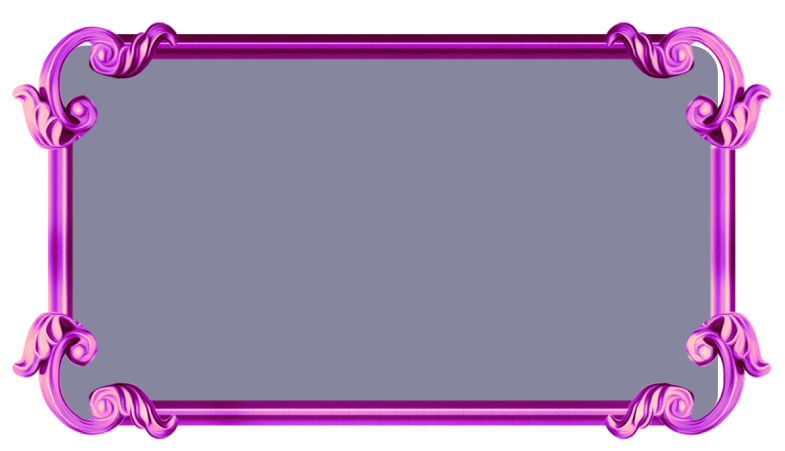
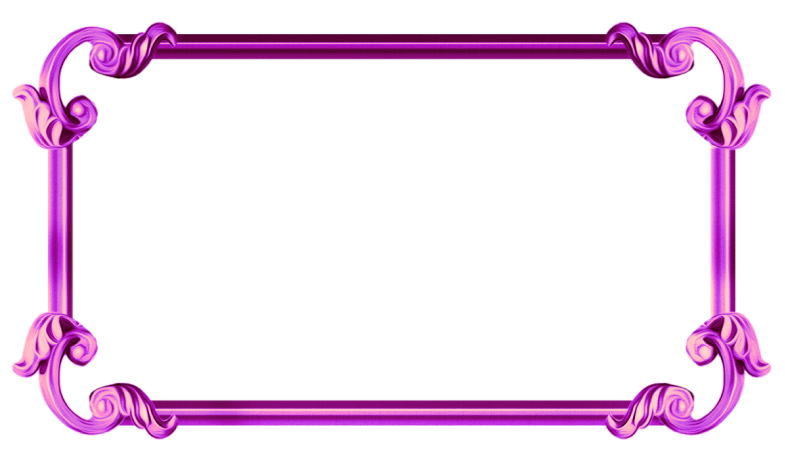
prizes modal

diff --git a/style/style.min.css b/style/style.min.css
@@ -1,1 +1,1 @@
-*,*::before,*::after{-webkit-box-sizing:border-box;box-sizing:border-box;margin:0;padding:0;position:relative;scroll-behavior:smooth}ul{list-style:none}a,a:visited{text-decoration:none;color:#fff}body{line-height:1.2;font-family:'Montserrat';font-style:normal;font-weight:400;text-rendering:optimizeLegibility;-webkit-font-smoothing:antialiased;-moz-osx-font-smoothing:grayscale;overflow-x:hidden;background-color:#141351}.container{margin:0 auto;padding:0 30px;max-width:1160px}.section{width:100%;position:relative}.btn{-webkit-appearance:none;-moz-appearance:none;appearance:none;border:none;display:block;cursor:pointer;text-align:center;display:-webkit-box;display:-ms-flexbox;display:flex;-webkit-box-align:center;-ms-flex-align:center;align-items:center;-webkit-box-pack:center;-ms-flex-pack:center;justify-content:center}.d-none{display:none !important}.no-events{pointer-events:none}.overflow-hidden{overflow:hidden}@media screen and (max-width: 425px){.container{padding:0 17px}}.baner{background:url("../img/baner-bg.jpg") no-repeat;background-position-x:center;background-size:cover;padding-bottom:60px;min-height:100vh;display:-webkit-box;display:-ms-flexbox;display:flex;-webkit-box-align:center;-ms-flex-align:center;align-items:center;padding:40px 0}.baner__hero{display:-webkit-box;display:-ms-flexbox;display:flex;-webkit-box-pack:justify;-ms-flex-pack:justify;justify-content:space-between;-webkit-box-align:center;-ms-flex-align:center;align-items:center}.baner__content{margin-right:30px;z-index:2}.baner__text{font-weight:500;font-size:20px;line-height:120%;letter-spacing:0.01em;color:rgba(255,255,255,0.9);margin-bottom:20px}.baner__title{font-weight:800;font-size:90px;line-height:100%;letter-spacing:-0.01em;text-transform:uppercase;color:#FFFFFF;text-shadow:0px 1px 11px #FFA200, 0px 0px 8px #FFC000, 0px -1px 2px #FFFA00, 0px 1px 4px #FF8700;margin-bottom:20px}.baner__subtitle{font-weight:700;font-size:24px;line-height:120%;letter-spacing:0.01em;color:#FFFFFF;margin-bottom:34px}.baner::after{content:'';position:absolute;bottom:0;left:0;right:0;width:100%;height:600px;background:-webkit-gradient(linear, left top, left bottom, color-stop(37.92%, rgba(20,19,81,0)), to(#141351));background:linear-gradient(180deg, rgba(20,19,81,0) 37.92%, #141351 100%);z-index:1;pointer-events:none}.prizes__title{font-weight:800;font-size:48px;line-height:110%;text-align:center;letter-spacing:-0.03em;text-transform:uppercase;color:#FFFFFF;text-shadow:0px 1px 11px #FFA200, 0px 1px 4px #FF8700;margin:0 auto;margin-bottom:60px;max-width:660px}.prizes__hero{width:100%;background:url("../img/frame-desktop.png") no-repeat;background-size:100% 100%;padding:45px 20px 0px;margin-bottom:120px}.prizes__list{display:-webkit-box;display:-ms-flexbox;display:flex;-webkit-box-align:stretch;-ms-flex-align:stretch;align-items:stretch;-webkit-box-pack:justify;-ms-flex-pack:justify;justify-content:space-between;-ms-flex-wrap:wrap;flex-wrap:wrap}.prizes__item{-ms-flex-preferred-size:25%;flex-basis:25%;padding:0 10px;margin-bottom:40px}.prizes__item.today .prizes__date::before{content:'';background:-webkit-gradient(linear, left bottom, left top, from(rgba(235,0,183,0.8)), to(#DB00FF)),#C937FF;background:linear-gradient(360deg, rgba(235,0,183,0.8) 0%, #DB00FF 100%),#C937FF;-webkit-box-shadow:0px 4px 14px -1px #DA77FF;box-shadow:0px 4px 14px -1px #DA77FF;border-radius:4px 4px 0px 0px;position:absolute;top:0;left:0;right:0;height:4px}.prizes__item.active .prizes__btn{opacity:1}.prizes__item.active .prizes__img{opacity:1;-webkit-filter:grayscale(0);filter:grayscale(0)}.prizes__date{position:relative;background:-webkit-gradient(linear, left top, left bottom, color-stop(2.6%, rgba(112,42,144,0.224)), to(rgba(15,1,98,0.2905)));background:linear-gradient(180deg, rgba(112,42,144,0.224) 2.6%, rgba(15,1,98,0.2905) 100%);border:1px solid rgba(255,255,255,0.05);-webkit-backdrop-filter:blur(13.5914px);backdrop-filter:blur(13.5914px);border-radius:8px;margin-bottom:10px;color:#fff;display:-webkit-box;display:-ms-flexbox;display:flex;-webkit-box-align:center;-ms-flex-align:center;align-items:center;-webkit-box-pack:center;-ms-flex-pack:center;justify-content:center;font-weight:800;font-size:20px;line-height:120%;letter-spacing:0.01em;text-transform:uppercase;padding:24px 12px 17px}.prizes__card{padding:15px 15px 35px;background:-webkit-gradient(linear, left top, left bottom, color-stop(2.6%, rgba(112,42,144,0.224)), to(rgba(15,1,98,0.2905)));background:linear-gradient(180deg, rgba(112,42,144,0.224) 2.6%, rgba(15,1,98,0.2905) 100%);border:1px solid rgba(255,255,255,0.05);-webkit-backdrop-filter:blur(13.5914px);backdrop-filter:blur(13.5914px);border-radius:8px}.prizes__day-num{font-weight:600;font-size:12px;line-height:167%;text-align:center;color:#FFFFFF;margin-bottom:25px}.prizes__img{width:105px;margin:0 auto;display:block;margin-bottom:33px;opacity:0.4;-webkit-filter:grayscale(1);filter:grayscale(1)}.prizes__btn{background:#EB4846;border-radius:5px;padding:7.5px 12px;font-weight:700;font-size:14px;line-height:171%;display:-webkit-box;display:-ms-flexbox;display:flex;-webkit-box-align:center;-ms-flex-align:center;align-items:center;text-align:center;letter-spacing:0.01em;color:#FFFFFF;margin:0 auto;-webkit-transition:background .3s ease;transition:background .3s ease;opacity:0.4;width:154px}.prizes__btn:hover{background:#e51b19}.terms{max-width:730px;margin-bottom:100px}.terms__title{font-weight:700;font-size:24px;line-height:140%;color:#fff;margin-bottom:20px}.terms__text{font-weight:400;font-size:16px;line-height:140%;text-align:justify;color:rgba(255,255,255,0.75)}.terms__list{padding-left:22px;margin-top:20px}.terms__item{color:rgba(255,255,255,0.75);margin-bottom:16px}.terms__item::before{content:'';position:absolute;width:2px;height:2px;background:rgba(255,255,255,0.75);top:8px;left:-12px;border-radius:50%}.spinner{position:relative;min-width:560px;height:560px;display:-webkit-box;display:-ms-flexbox;display:flex;-webkit-box-pack:center;-ms-flex-pack:center;justify-content:center;-webkit-box-align:center;-ms-flex-align:center;align-items:center;z-index:2}.spinner__bg{position:absolute;width:100%;height:100%}.spinner__hero{width:465px;height:465px;-webkit-transition:-webkit-transform 2s ease-in-out 0s;transition:-webkit-transform 2s ease-in-out 0s;transition:transform 2s ease-in-out 0s;transition:transform 2s ease-in-out 0s, -webkit-transform 2s ease-in-out 0s;-webkit-transform:rotate(0deg);transform:rotate(0deg);cursor:pointer}.spinner__pointer{position:absolute;top:21px;left:50%;-webkit-transform:translate(-40%, 0);transform:translate(-40%, 0);width:55px}.spinner__btn-wrap{position:absolute;top:50%;left:50%;-webkit-transform:translate(-50%, -50%);transform:translate(-50%, -50%)}.spinner__btn{background:url("../img/wheel/btn.png") no-repeat;background-size:100% 100%;width:96px;height:96px;border-radius:50%}#spinner.spinning .spinner__hero{-webkit-transform:rotate(60deg);transform:rotate(60deg)}.select{position:relative;cursor:pointer;display:-webkit-box;display:-ms-flexbox;display:flex;-webkit-box-align:center;-ms-flex-align:center;align-items:center;-webkit-box-pack:center;-ms-flex-pack:center;justify-content:center;background:rgba(247,243,255,0.1);border:1px solid rgba(255,255,255,0.1);-webkit-backdrop-filter:blur(15px);backdrop-filter:blur(15px);border-radius:5px;padding:8px 16px;max-width:230px}.select__val{color:#fff;font-weight:700;font-size:14px;line-height:171%;letter-spacing:0.01em;text-align:center}.select__icon{margin-left:12px;-webkit-transform:rotate(0deg);transform:rotate(0deg);-webkit-transition:-webkit-transform .3s ease;transition:-webkit-transform .3s ease;transition:transform .3s ease;transition:transform .3s ease, -webkit-transform .3s ease}.select__list{position:absolute;top:105%;left:0;right:0;border-radius:5px;background:rgba(247,243,255,0.1);border:1px solid rgba(255,255,255,0.1);-webkit-backdrop-filter:blur(15px);backdrop-filter:blur(15px);z-index:2;-webkit-transform:translateY(-5px);transform:translateY(-5px);opacity:0;pointer-events:none;-webkit-transition:opacity .3s ease, -webkit-transform .3s ease;transition:opacity .3s ease, -webkit-transform .3s ease;transition:opacity .3s ease, transform .3s ease;transition:opacity .3s ease, transform .3s ease, -webkit-transform .3s ease}.select__list li{padding:8px 5px 8px 14px;cursor:pointer;color:#fff;-webkit-transition:color .2s ease;transition:color .2s ease}.select__list li:hover{color:#fff}.select.opened .select__list{-webkit-transform:translateY(0px);transform:translateY(0px);opacity:1;pointer-events:all}.select.opened .select__icon{-webkit-transform:rotate(180deg);transform:rotate(180deg)}.modal{position:fixed;top:0;bottom:0;left:0;right:0;background:rgba(5,0,20,0.5);-webkit-backdrop-filter:blur(2px);backdrop-filter:blur(2px);z-index:100;display:none;opacity:0;-webkit-transition:opacity .3s ease;transition:opacity .3s ease;padding:30px;overflow-x:hidden}.modal.displayed{display:block}.modal.visible{opacity:1}.modal__container{min-height:100%;max-width:785px;display:-webkit-box;display:-ms-flexbox;display:flex;-webkit-box-pack:center;-ms-flex-pack:center;justify-content:center;-webkit-box-align:center;-ms-flex-align:center;align-items:center;margin:0 auto;position:relative}.modal__hero{width:100%;height:450px;padding:40px 55px;display:-webkit-box;display:-ms-flexbox;display:flex;-webkit-box-orient:vertical;-webkit-box-direction:normal;-ms-flex-direction:column;flex-direction:column;-webkit-box-pack:start;-ms-flex-pack:start;justify-content:flex-start;position:relative}.modal__hero::after{content:'';position:absolute;pointer-events:none;width:100%;height:100%;background:url("../img/wheel-popup-desktop.png") no-repeat;background-size:100% 100%;top:0;left:0}.modal__content{background:rgba(16,13,63,0.5);-webkit-backdrop-filter:blur(22px);backdrop-filter:blur(22px);border-radius:28px;height:100%;width:100%;display:-webkit-box;display:-ms-flexbox;display:flex;-webkit-box-orient:vertical;-webkit-box-direction:normal;-ms-flex-direction:column;flex-direction:column;-webkit-box-align:center;-ms-flex-align:center;align-items:center;-webkit-box-pack:center;-ms-flex-pack:center;justify-content:center}.modal__close{position:absolute;right:30px;top:0;cursor:pointer}.modal__close path{-webkit-transition:all .2s ease;transition:all .2s ease}.modal__close:hover path{stroke-opacity:1}.modal__head-text{font-weight:600;font-size:16px;line-height:120%;text-align:center;color:#FFFFFF;margin-bottom:5px}.modal__big-title{font-weight:800;font-size:34px;line-height:120%;text-align:center;letter-spacing:-0.03em;color:#FFFFFF;text-shadow:0px 1px 12px #FFA200;margin-bottom:70px;max-width:412px}.modal__btn{display:-webkit-box;display:-ms-flexbox;display:flex;-webkit-box-pack:center;-ms-flex-pack:center;justify-content:center;-webkit-box-align:center;-ms-flex-align:center;align-items:center;padding:7px 39px 8px;min-width:128px;background:#EB4846;border-radius:5px;font-weight:700;font-size:14px;line-height:171%;letter-spacing:0.01em;color:#FFFFFF;-webkit-transition:background .3s ease;transition:background .3s ease}.modal__btn:hover{background:#e51b19}
+*,*::before,*::after{-webkit-box-sizing:border-box;box-sizing:border-box;margin:0;padding:0;position:relative;scroll-behavior:smooth}ul{list-style:none}a,a:visited{text-decoration:none;color:#fff}body{line-height:1.2;font-family:'Montserrat';font-style:normal;font-weight:400;text-rendering:optimizeLegibility;-webkit-font-smoothing:antialiased;-moz-osx-font-smoothing:grayscale;overflow-x:hidden;background-color:#141351}.container{margin:0 auto;padding:0 30px;max-width:1160px}.section{width:100%;position:relative}.btn{-webkit-appearance:none;-moz-appearance:none;appearance:none;border:none;display:block;cursor:pointer;text-align:center;display:-webkit-box;display:-ms-flexbox;display:flex;-webkit-box-align:center;-ms-flex-align:center;align-items:center;-webkit-box-pack:center;-ms-flex-pack:center;justify-content:center}.d-none{display:none !important}.no-events{pointer-events:none}.overflow-hidden{overflow:hidden}@media screen and (max-width: 425px){.container{padding:0 17px}}.baner{background:url("../img/baner-bg.jpg") no-repeat;background-position-x:center;background-size:cover;padding-bottom:60px;min-height:100vh;display:-webkit-box;display:-ms-flexbox;display:flex;-webkit-box-align:center;-ms-flex-align:center;align-items:center;padding:40px 0}.baner__hero{display:-webkit-box;display:-ms-flexbox;display:flex;-webkit-box-pack:justify;-ms-flex-pack:justify;justify-content:space-between;-webkit-box-align:center;-ms-flex-align:center;align-items:center}.baner__content{margin-right:30px;z-index:2}.baner__text{font-weight:500;font-size:20px;line-height:120%;letter-spacing:0.01em;color:rgba(255,255,255,0.9);margin-bottom:20px}.baner__title{font-weight:800;font-size:90px;line-height:100%;letter-spacing:-0.01em;text-transform:uppercase;color:#FFFFFF;text-shadow:0px 1px 11px #FFA200, 0px 0px 8px #FFC000, 0px -1px 2px #FFFA00, 0px 1px 4px #FF8700;margin-bottom:20px}.baner__subtitle{font-weight:700;font-size:24px;line-height:120%;letter-spacing:0.01em;color:#FFFFFF;margin-bottom:34px}.baner::after{content:'';position:absolute;bottom:0;left:0;right:0;width:100%;height:600px;background:-webkit-gradient(linear, left top, left bottom, color-stop(37.92%, rgba(20,19,81,0)), to(#141351));background:linear-gradient(180deg, rgba(20,19,81,0) 37.92%, #141351 100%);z-index:1;pointer-events:none}.prizes__title{font-weight:800;font-size:48px;line-height:110%;text-align:center;letter-spacing:-0.03em;text-transform:uppercase;color:#FFFFFF;text-shadow:0px 1px 11px #FFA200, 0px 1px 4px #FF8700;margin:0 auto;margin-bottom:60px;max-width:660px}.prizes__hero{width:100%;background:url("../img/frame-desktop.png") no-repeat;background-size:100% 100%;padding:45px 20px 0px;margin-bottom:120px}.prizes__list{display:-webkit-box;display:-ms-flexbox;display:flex;-webkit-box-align:stretch;-ms-flex-align:stretch;align-items:stretch;-webkit-box-pack:justify;-ms-flex-pack:justify;justify-content:space-between;-ms-flex-wrap:wrap;flex-wrap:wrap}.prizes__item{-ms-flex-preferred-size:25%;flex-basis:25%;padding:0 10px;margin-bottom:40px}.prizes__item.today .prizes__date::before{content:'';background:-webkit-gradient(linear, left bottom, left top, from(rgba(235,0,183,0.8)), to(#DB00FF)),#C937FF;background:linear-gradient(360deg, rgba(235,0,183,0.8) 0%, #DB00FF 100%),#C937FF;-webkit-box-shadow:0px 4px 14px -1px #DA77FF;box-shadow:0px 4px 14px -1px #DA77FF;border-radius:4px 4px 0px 0px;position:absolute;top:0;left:0;right:0;height:4px}.prizes__item.active .prizes__btn{opacity:1}.prizes__item.active .prizes__img{opacity:1;-webkit-filter:grayscale(0);filter:grayscale(0)}.prizes__date{position:relative;background:-webkit-gradient(linear, left top, left bottom, color-stop(2.6%, rgba(112,42,144,0.224)), to(rgba(15,1,98,0.2905)));background:linear-gradient(180deg, rgba(112,42,144,0.224) 2.6%, rgba(15,1,98,0.2905) 100%);border:1px solid rgba(255,255,255,0.05);-webkit-backdrop-filter:blur(13.5914px);backdrop-filter:blur(13.5914px);border-radius:8px;margin-bottom:10px;color:#fff;display:-webkit-box;display:-ms-flexbox;display:flex;-webkit-box-align:center;-ms-flex-align:center;align-items:center;-webkit-box-pack:center;-ms-flex-pack:center;justify-content:center;font-weight:800;font-size:20px;line-height:120%;letter-spacing:0.01em;text-transform:uppercase;padding:24px 12px 17px}.prizes__card{padding:15px 15px 35px;background:-webkit-gradient(linear, left top, left bottom, color-stop(2.6%, rgba(112,42,144,0.224)), to(rgba(15,1,98,0.2905)));background:linear-gradient(180deg, rgba(112,42,144,0.224) 2.6%, rgba(15,1,98,0.2905) 100%);border:1px solid rgba(255,255,255,0.05);-webkit-backdrop-filter:blur(13.5914px);backdrop-filter:blur(13.5914px);border-radius:8px}.prizes__day-num{font-weight:600;font-size:12px;line-height:167%;text-align:center;color:#FFFFFF;margin-bottom:25px}.prizes__img{width:105px;margin:0 auto;display:block;margin-bottom:33px;opacity:0.4;-webkit-filter:grayscale(1);filter:grayscale(1)}.prizes__btn{background:#EB4846;border-radius:5px;padding:7.5px 12px;font-weight:700;font-size:14px;line-height:171%;display:-webkit-box;display:-ms-flexbox;display:flex;-webkit-box-align:center;-ms-flex-align:center;align-items:center;text-align:center;letter-spacing:0.01em;color:#FFFFFF;margin:0 auto;-webkit-transition:background .3s ease;transition:background .3s ease;opacity:0.4;width:154px}.prizes__btn:hover{background:#e51b19}.terms{max-width:730px;margin-bottom:100px}.terms__title{font-weight:700;font-size:24px;line-height:140%;color:#fff;margin-bottom:20px}.terms__text{font-weight:400;font-size:16px;line-height:140%;text-align:justify;color:rgba(255,255,255,0.75)}.terms__list{padding-left:22px;margin-top:20px}.terms__item{color:rgba(255,255,255,0.75);margin-bottom:16px}.terms__item::before{content:'';position:absolute;width:2px;height:2px;background:rgba(255,255,255,0.75);top:8px;left:-12px;border-radius:50%}.spinner{position:relative;min-width:560px;height:560px;display:-webkit-box;display:-ms-flexbox;display:flex;-webkit-box-pack:center;-ms-flex-pack:center;justify-content:center;-webkit-box-align:center;-ms-flex-align:center;align-items:center;z-index:2}.spinner__bg{position:absolute;width:100%;height:100%}.spinner__hero{width:465px;height:465px;-webkit-transition:-webkit-transform 2s ease-in-out 0s;transition:-webkit-transform 2s ease-in-out 0s;transition:transform 2s ease-in-out 0s;transition:transform 2s ease-in-out 0s, -webkit-transform 2s ease-in-out 0s;-webkit-transform:rotate(0deg);transform:rotate(0deg);cursor:pointer}.spinner__pointer{position:absolute;top:21px;left:50%;-webkit-transform:translate(-40%, 0);transform:translate(-40%, 0);width:55px}.spinner__btn-wrap{position:absolute;top:50%;left:50%;-webkit-transform:translate(-50%, -50%);transform:translate(-50%, -50%)}.spinner__btn{background:url("../img/wheel/btn.png") no-repeat;background-size:100% 100%;width:96px;height:96px;border-radius:50%}#spinner.spinning .spinner__hero{-webkit-transform:rotate(60deg);transform:rotate(60deg)}.select{position:relative;cursor:pointer;display:-webkit-box;display:-ms-flexbox;display:flex;-webkit-box-align:center;-ms-flex-align:center;align-items:center;-webkit-box-pack:center;-ms-flex-pack:center;justify-content:center;background:rgba(247,243,255,0.1);border:1px solid rgba(255,255,255,0.1);-webkit-backdrop-filter:blur(15px);backdrop-filter:blur(15px);border-radius:5px;padding:8px 16px;max-width:230px}.select__val{color:#fff;font-weight:700;font-size:14px;line-height:171%;letter-spacing:0.01em;text-align:center}.select__icon{margin-left:12px;-webkit-transform:rotate(0deg);transform:rotate(0deg);-webkit-transition:-webkit-transform .3s ease;transition:-webkit-transform .3s ease;transition:transform .3s ease;transition:transform .3s ease, -webkit-transform .3s ease}.select__list{position:absolute;top:105%;left:0;right:0;border-radius:5px;background:rgba(247,243,255,0.1);border:1px solid rgba(255,255,255,0.1);-webkit-backdrop-filter:blur(15px);backdrop-filter:blur(15px);z-index:2;-webkit-transform:translateY(-5px);transform:translateY(-5px);opacity:0;pointer-events:none;-webkit-transition:opacity .3s ease, -webkit-transform .3s ease;transition:opacity .3s ease, -webkit-transform .3s ease;transition:opacity .3s ease, transform .3s ease;transition:opacity .3s ease, transform .3s ease, -webkit-transform .3s ease}.select__list li{padding:8px 5px 8px 14px;cursor:pointer;color:#fff;-webkit-transition:color .2s ease;transition:color .2s ease}.select__list li:hover{color:#fff}.select.opened .select__list{-webkit-transform:translateY(0px);transform:translateY(0px);opacity:1;pointer-events:all}.select.opened .select__icon{-webkit-transform:rotate(180deg);transform:rotate(180deg)}.modal{position:fixed;top:0;bottom:0;left:0;right:0;background:rgba(5,0,20,0.5);-webkit-backdrop-filter:blur(2px);backdrop-filter:blur(2px);z-index:100;display:none;opacity:0;-webkit-transition:opacity .3s ease;transition:opacity .3s ease;padding:30px;overflow-x:hidden}.modal.displayed{display:block}.modal.visible{opacity:1}.modal__container{min-height:100%;max-width:785px;display:-webkit-box;display:-ms-flexbox;display:flex;-webkit-box-pack:center;-ms-flex-pack:center;justify-content:center;-webkit-box-align:center;-ms-flex-align:center;align-items:center;margin:0 auto;position:relative}.modal__hero{width:100%;height:420px;padding:40px 55px;display:-webkit-box;display:-ms-flexbox;display:flex;-webkit-box-orient:vertical;-webkit-box-direction:normal;-ms-flex-direction:column;flex-direction:column;-webkit-box-pack:start;-ms-flex-pack:start;justify-content:flex-start;position:relative}.modal__hero::after{content:'';position:absolute;pointer-events:none;width:100%;height:100%;background:url("../img/wheel-popup-desktop.png") no-repeat;background-size:100% 100%;top:0;left:0}.modal__hero.prizes::after{background:url("../img/popup-desktop.png") no-repeat;background-size:100% 100%}.modal__content{background:rgba(16,13,63,0.5);-webkit-backdrop-filter:blur(22px);backdrop-filter:blur(22px);border-radius:28px;height:100%;width:100%;display:-webkit-box;display:-ms-flexbox;display:flex;-webkit-box-orient:vertical;-webkit-box-direction:normal;-ms-flex-direction:column;flex-direction:column;-webkit-box-align:center;-ms-flex-align:center;align-items:center;-webkit-box-pack:center;-ms-flex-pack:center;justify-content:center}.modal__close{position:absolute;right:30px;top:0;cursor:pointer}.modal__close path{-webkit-transition:all .2s ease;transition:all .2s ease}.modal__close:hover path{stroke-opacity:1}.modal__head-text{font-weight:600;font-size:16px;line-height:120%;text-align:center;color:#FFFFFF;margin-bottom:5px}.modal__big-title{font-weight:800;font-size:34px;line-height:120%;text-align:center;letter-spacing:-0.03em;color:#FFFFFF;text-shadow:0px 1px 12px #FFA200;margin-bottom:70px;max-width:412px}.modal__title{font-weight:800;font-size:24px;line-height:120%;text-align:center;letter-spacing:-0.03em;color:#FFFFFF;text-shadow:0px 1px 12px #FFA200;margin-bottom:30px}.modal__descr{font-weight:500;font-size:20px;line-height:140%;text-align:center;letter-spacing:0.01em;color:#FFFFFF;margin-bottom:40px;max-width:465px}.modal__btn{display:-webkit-box;display:-ms-flexbox;display:flex;-webkit-box-pack:center;-ms-flex-pack:center;justify-content:center;-webkit-box-align:center;-ms-flex-align:center;align-items:center;padding:7px 39px 8px;min-width:128px;background:#EB4846;border-radius:5px;font-weight:700;font-size:14px;line-height:171%;letter-spacing:0.01em;color:#FFFFFF;-webkit-transition:background .3s ease;transition:background .3s ease}.modal__btn:hover{background:#e51b19}

diff --git a/main.js b/main.js
@@ -33,6 +33,7 @@ spinnerBtn.addEventListener('click', () => {
     }, animTimeout);
 });
 
+
 document.querySelectorAll('.modal__close').forEach(el => {
     el.addEventListener('click', () => closeModal('ops-modal'));
 });
@@ -53,112 +54,3 @@ const selectVal = select.querySelector('.select__val');
 select.addEventListener('click', () => {
     select.classList.toggle('opened');
 });
-
-//REQUEST
-const modalBtn = document.querySelector('.modal__btn');
-const emailInput = document.querySelector('#email');
-const passwordInput = document.querySelector('#password');
-const promocodeInput = document.querySelector('#promocode');
-const currencyInput = document.querySelector('#currency');
-
-const termCheckbox = document.querySelector('#terms');
-const gamesCheckbox = document.querySelector('#games');
-const adultCheckbox = document.querySelector('#adult');
-
-modalBtn.addEventListener('click', e => {
-    e.preventDefault();
-    //clear errors
-    emailInput.classList.remove('error');
-    passwordInput.classList.remove('error');
-    currencyInput.classList.remove('error');
-    termCheckbox.classList.remove('error');
-    gamesCheckbox.classList.remove('error');
-    adultCheckbox.classList.remove('error');
-
-    //validate
-    const isEmailValid = validateEmail(emailInput.value);
-    if (!isEmailValid) emailInput.classList.add('error');
-
-    const isPasswordValid = passwordInput.value.length > 0;
-    if (!isPasswordValid) passwordInput.classList.add('error');
-
-    const isCurrencyValid = currencyInput.querySelector('.select__val').innerHTML != 'Currency';
-    if (!isCurrencyValid) currencyInput.classList.add('error');
-
-    if (!termCheckbox.checked) termCheckbox.classList.add('error');
-    if (!gamesCheckbox.checked) gamesCheckbox.classList.add('error');
-    if (!adultCheckbox.checked) adultCheckbox.classList.add('error');
-
-    if (isEmailValid && isPasswordValid && isCurrencyValid &&
-        termCheckbox.checked && gamesCheckbox.checked && adultCheckbox.checked)
-        sendData(
-            emailInput.value, 
-            passwordInput.value, 
-            currencyInput.querySelector('.select__val').innerHTML, 
-            promocodeInput.value
-        );
-});
-
-
-//oncahge
-termCheckbox.addEventListener('change', e => e.target.classList.remove('error'))
-gamesCheckbox.addEventListener('change', e => e.target.classList.remove('error'))
-adultCheckbox.addEventListener('change', e => e.target.classList.remove('error'))
-
-emailInput.addEventListener('input', (e) => {
-    if (validateEmail(e.target.value)) e.target.classList.remove('error');
-});
-passwordInput.addEventListener('input', (e) => {
-    if (e.target.value.length > 0) e.target.classList.remove('error');
-});
-
-//functions
-function sendData(email, password, currency, promocode = ""){
-    var xhr = new XMLHttpRequest();
-
-    const json = JSON.stringify({
-        "TYPE": "user-register",
-        "data": {
-            "email": email,
-            "password": password,
-            "currency": currency,
-            "registrationPromoCode": promocode,
-            "agreedWithTermsAndConditions": true,
-            "agreeWithSelfExcluded": true,
-            "ageConfirmed": true,
-            "passwordRepeat": password
-        },
-        "fields": [
-            "email",
-            "password",
-            "currency",
-            "registrationPromoCode",
-            "agreedWithTermsAndConditions",
-            "agreeWithSelfExcluded",
-            "ageConfirmed",
-            "passwordRepeat"
-        ]
-    });
-
-    xhr.open('POST', 'https://foggystar.com/api/v1/validate/user-register?lang=en');
-    xhr.setRequestHeader('Content-type', 'application/json; charset=utf-8');
-    xhr.send(json);
-
-    xhr.onload = function() {
-    if (xhr.status != 200) { // анализируем HTTP-статус ответа, если статус не 200, то произошла ошибка
-        alert(`Ошибка ${xhr.status}: ${xhr.statusText}`); // Например, 404: Not Found
-    } else { // если всё прошло гладко, выводим результат
-        alert(`Готово, получили ${xhr.response.length} байт`); // response -- это ответ сервера
-    }
-        console.log(xhr.responseText)
-    };
-
-    xhr.onerror = function() {
-        alert("Запрос не удался");
-    };
-}
-
-function validateEmail(email){
-    var re = /^(([^<>()[\]\\.,;:\s@"]+(\.[^<>()[\]\\.,;:\s@"]+)*)|(".+"))@((\[[0-9]{1,3}\.[0-9]{1,3}\.[0-9]{1,3}\.[0-9]{1,3}\])|(([a-zA-Z\-0-9]+\.)+[a-zA-Z]{2,}))$/;
-    return re.test(email);
-};

diff --git a/sass/_modal.sass b/sass/_modal.sass
@@ -26,7 +26,7 @@
         position: relative
     &__hero
         width: 100%
-        height: 450px
+        height: 420px
         padding: 40px 55px
         display: flex
         flex-direction: column
@@ -42,6 +42,10 @@
             background-size: 100% 100%
             top: 0
             left: 0
+        &.prizes
+            &::after
+                background: url('../img/popup-desktop.png') no-repeat
+                background-size: 100% 100%
     &__content
         background: rgba(16, 13, 63, 0.5)
         backdrop-filter: blur(22px)
@@ -79,6 +83,24 @@
         text-shadow: 0px 1px 12px #FFA200
         margin-bottom: 70px
         max-width: 412px
+    &__title
+        font-weight: 800
+        font-size: 24px
+        line-height: 120%
+        text-align: center
+        letter-spacing: -0.03em
+        color: #FFFFFF
+        text-shadow: 0px 1px 12px #FFA200
+        margin-bottom: 30px
+    &__descr
+        font-weight: 500
+        font-size: 20px
+        line-height: 140%
+        text-align: center
+        letter-spacing: 0.01em
+        color: #FFFFFF
+        margin-bottom: 40px
+        max-width: 465px
     &__btn
         display: flex
         justify-content: center

diff --git a/index.html b/index.html
@@ -156,6 +156,22 @@
             </div>
         </div>
     </div>
+    <div class="modal" id="prize-modal">
+        <div class="container modal__container">
+            <div class="modal__hero prizes">
+                <svg class="modal__close" width="16" height="16" viewBox="0 0 16 16" fill="none" xmlns="http://www.w3.org/2000/svg">
+                    <path d="M14 2L2 14" stroke="white" stroke-opacity="0.7" stroke-width="2" stroke-linecap="round" stroke-linejoin="round"/>
+                    <path d="M2 2L14 14" stroke="white" stroke-opacity="0.7" stroke-width="2" stroke-linecap="round" stroke-linejoin="round"/>
+                </svg>                                      
+                <div class="modal__content">
+                    <div class="modal__head-text">Mission 1  </div>
+                    <h3 class="modal__title">25 December</h3>
+                    <p class="modal__descr">Make 50 spins in “Christmas” category slots and get 1 Christmas Chance spin.</p>
+                    <a href="" class="btn modal__btn">Start</a>
+                </div>
+            </div>
+        </div>
+    </div>
 </body>
 <script src="./main.js"></script>
 </html>

diff --git a/style/style.css b/style/style.css
@@ -538,7 +538,7 @@ body {
 
 .modal__hero {
   width: 100%;
-  height: 450px;
+  height: 420px;
   padding: 40px 55px;
   display: -webkit-box;
   display: -ms-flexbox;
@@ -563,6 +563,11 @@ body {
   background-size: 100% 100%;
   top: 0;
   left: 0;
+}
+
+.modal__hero.prizes::after {
+  background: url("../img/popup-desktop.png") no-repeat;
+  background-size: 100% 100%;
 }
 
 .modal__content {
@@ -622,6 +627,28 @@ body {
   text-shadow: 0px 1px 12px #FFA200;
   margin-bottom: 70px;
   max-width: 412px;
+}
+
+.modal__title {
+  font-weight: 800;
+  font-size: 24px;
+  line-height: 120%;
+  text-align: center;
+  letter-spacing: -0.03em;
+  color: #FFFFFF;
+  text-shadow: 0px 1px 12px #FFA200;
+  margin-bottom: 30px;
+}
+
+.modal__descr {
+  font-weight: 500;
+  font-size: 20px;
+  line-height: 140%;
+  text-align: center;
+  letter-spacing: 0.01em;
+  color: #FFFFFF;
+  margin-bottom: 40px;
+  max-width: 465px;
 }
 
 .modal__btn {
